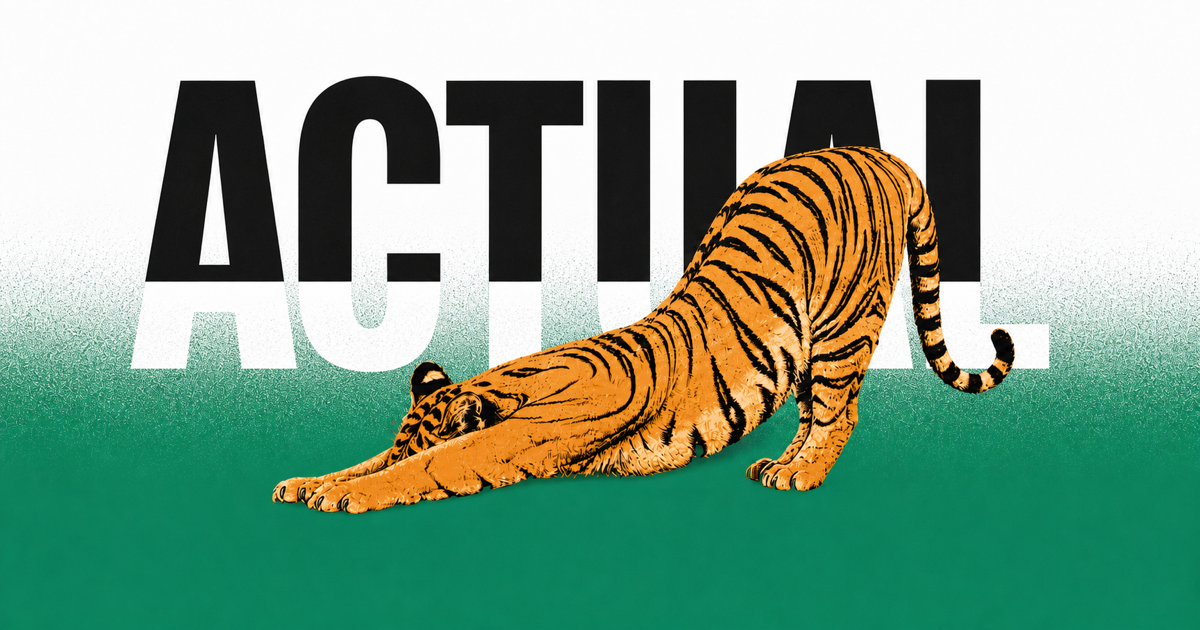
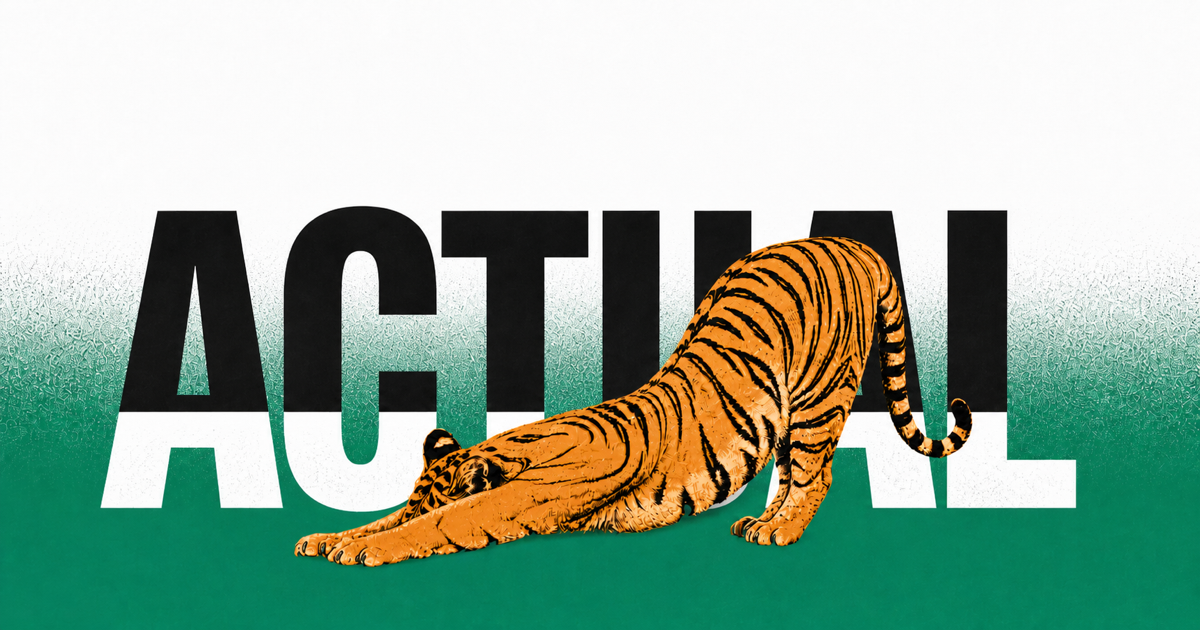
Restore the lower wordmark overlay

diff --git a/src/styles.css b/src/styles.css
@@ -12,7 +12,7 @@
   --type-y:0px;
   --animal-x:0px;
   --animal-y:0px;
-  --wordmark-top:18vh;
+  --wordmark-bottom:26vh;
   --edge:clamp(1rem,2vw,2rem);
   --ease:cubic-bezier(.16,1,.3,1);
   font-family:"Geist Variable",sans-serif;
@@ -44,12 +44,12 @@ button{font:inherit}
 .animal{position:absolute;z-index:2;display:block;height:auto;max-width:none;transform:translate3d(var(--animal-x),var(--animal-y),0);transform-origin:center bottom;will-change:transform;user-select:none;-webkit-user-drag:none}
 .noscript-image{display:none}
 
-.wordmark{position:absolute;z-index:1;top:var(--wordmark-top);right:var(--edge);left:var(--edge);color:#fff;font-size:clamp(7rem,18.8vw,22rem);font-weight:570;line-height:.66;letter-spacing:-.087em;white-space:nowrap;opacity:.9;mix-blend-mode:difference;transform:translate3d(var(--type-x),var(--type-y),0);transition:top .65s var(--ease);will-change:transform;pointer-events:none}
-html[data-scene="0"]{--wordmark-top:18vh}
-html[data-scene="1"]{--wordmark-top:46vh}
-html[data-scene="2"]{--wordmark-top:46vh}
-html[data-scene="3"]{--wordmark-top:32vh}
-html[data-scene="4"]{--wordmark-top:18vh}
+.wordmark{position:absolute;z-index:1;right:var(--edge);bottom:var(--wordmark-bottom);left:var(--edge);color:#fff;font-size:clamp(7rem,18.8vw,22rem);font-weight:570;line-height:.66;letter-spacing:-.087em;white-space:nowrap;opacity:.9;mix-blend-mode:difference;transform:translate3d(var(--type-x),var(--type-y),0);transition:bottom .65s var(--ease);will-change:transform;pointer-events:none}
+html[data-scene="0"]{--wordmark-bottom:26vh}
+html[data-scene="1"]{--wordmark-bottom:20vh}
+html[data-scene="2"]{--wordmark-bottom:10vh}
+html[data-scene="3"]{--wordmark-bottom:38vh}
+html[data-scene="4"]{--wordmark-bottom:26vh}
 html[data-scene="0"] .animal{bottom:-2vh;left:6vw;width:min(84vw,86rem)}
 html[data-scene="1"] .animal{right:4vw;bottom:-4vh;width:min(59vw,62rem)}
 html[data-scene="2"] .animal{bottom:-7vh;left:20vw;width:min(60vw,62rem)}
@@ -67,11 +67,11 @@ button:focus-visible,a:focus-visible{outline:1px solid currentColor;outline-offs
   :root{--edge:1rem}
   .site{min-height:36rem}
   .wordmark{font-size:25.2vw;line-height:.7}
-  html[data-scene="0"]{--wordmark-top:56vh}
-  html[data-scene="1"]{--wordmark-top:48vh}
-  html[data-scene="2"]{--wordmark-top:51vh}
-  html[data-scene="3"]{--wordmark-top:65vh}
-  html[data-scene="4"]{--wordmark-top:43vh}
+  html[data-scene="0"]{--wordmark-bottom:15vh}
+  html[data-scene="1"]{--wordmark-bottom:20vh}
+  html[data-scene="2"]{--wordmark-bottom:16vh}
+  html[data-scene="3"]{--wordmark-bottom:25vh}
+  html[data-scene="4"]{--wordmark-bottom:19vh}
   .scene-control,.contact{font-size:.54rem}
   .poster-background{transform:translate3d(var(--background-x),var(--background-y),0) scale(1.055)}
   html[data-scene="0"] .animal{bottom:5vh;left:-12vw;width:124vw}
@@ -82,7 +82,7 @@ button:focus-visible,a:focus-visible{outline:1px solid currentColor;outline-offs
 }
 
 @media(max-height:620px) and (min-width:761px){
-  html[data-scene]{--wordmark-top:12vh}
+  html[data-scene]{--wordmark-bottom:4vh}
 }
 
 @media(prefers-reduced-motion:reduce){
